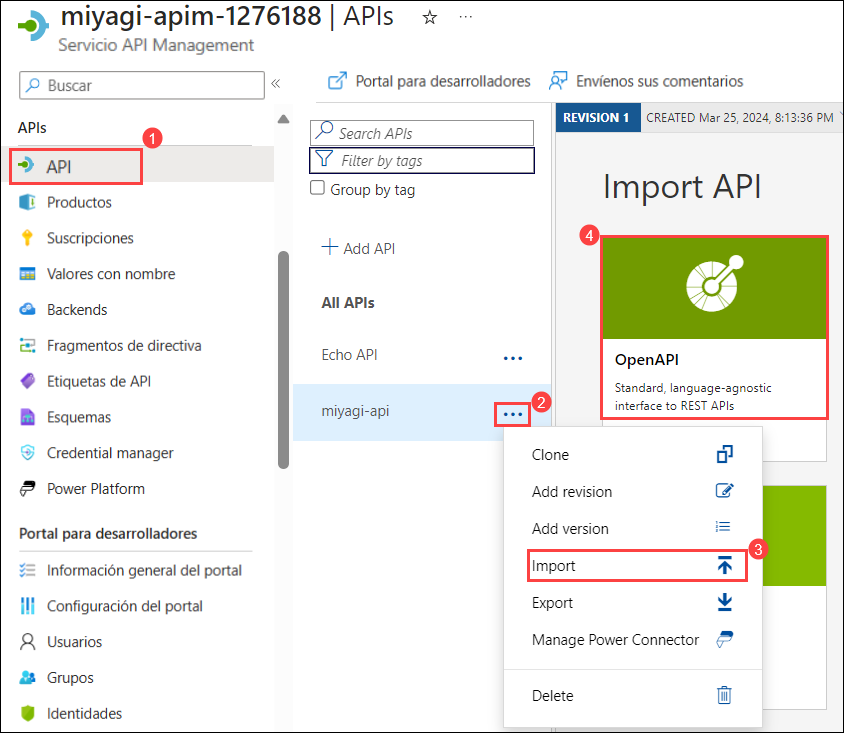
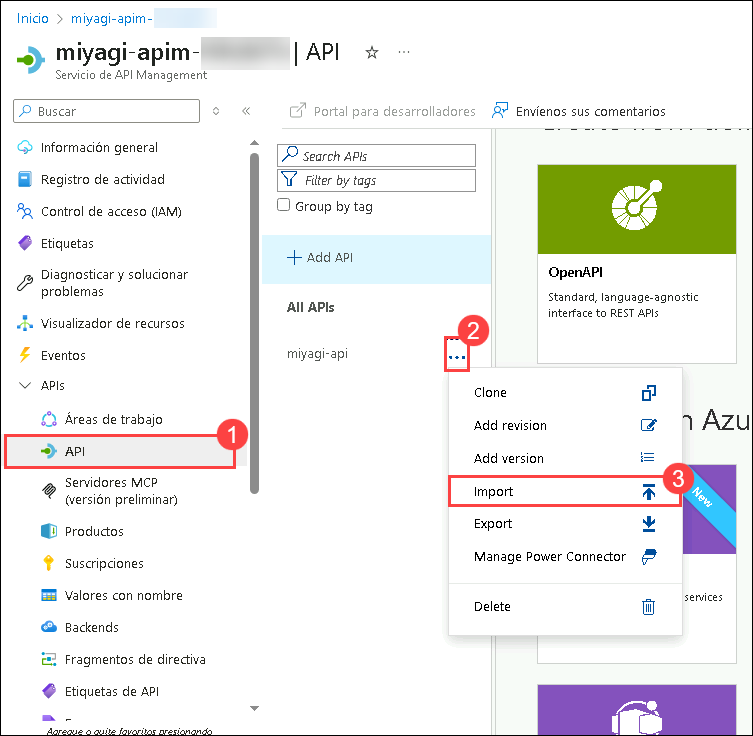
updated Lab3.md

diff --git a/docs/labs/02-build-your-own-copilot/Lab3.md b/docs/labs/02-build-your-own-copilot/Lab3.md
@@ -30,7 +30,7 @@ En esta tarea, configurará una API HTTP en Azure API Management para interactua
    | API Type **(1)**     | **Basic**            | 
    | Display name **(2)** | **miyagi-api**       |
    | Name **(3)**         | **miyagi-api**       |
-   | Web service URL **(4)** | Enter the Endpoint of Azure OpenAI Endpoint  **<inject key="OpenAIEndpoint" enableCopy="true"/>**  |
+   | Web service URL **(4)** | Ingrese el punto final de Azure OpenAI Endpoint  **<inject key="OpenAIEndpoint" enableCopy="true"/>**  |
    | API URL suffix **(5)** | **openai** |
    | Click on  **(6)** | **Create** |
 
@@ -84,7 +84,9 @@ En este laboratorio, configurará políticas de API, definirá roles y suscripci
 
 7. En la ventana **Agregar producto**, especifique **OpenAi** **(1)** como **Nombre para mostrar** y **OpenAI** **(2)** como **Descripción**. En el menú **API**, haga clic en el **Signo más** **(3)**, seleccione **Azure OpenAI Service API** **(4)**, presione Intro y haga clic en **Crear** **(5)**.
 
-   ![](./Media/productSpan.png)
+   ![](./Media/productSpan-1.png)
+
+   ![](./Media/productSpan-2.png)
 
 8. En el servicio API Management **miyagi-apim-<inject key="DeploymentID" enableCopy="false"/>**, haga clic en **Suscripciones** **(1)** en APIs del menú izquierdo y haga clic en **+ Agregar suscripción** **(2)**.
 
@@ -188,7 +190,6 @@ En esta tarea, actualizará la configuración del servicio de recomendaciones, r
 
     >**Nota**: Este comando crea una imagen Docker llamada Miyagi-recommendation a partir del Dockerfile y los archivos asociados en el directorio actual.
 
-
 1. Ejecute el siguiente comando para iniciar sesión en ACR.
 
     ```
@@ -255,13 +256,15 @@ En esta tarea, configurará el registro de Event Hub para API Management, config
 
    ![](./Media/namespace2-1.png)
 
-4. En la pestaña **Miembros**, seleccione **Identidad administrada** **(1)**, haga clic en **+ Seleccionar miembros** **(2)**. 
+4. En la pestaña **Miembros**, seleccione **Identidad administrada** **(1)**, haga clic en **+ Seleccionar miembros** **(2)**.
 
-5. En la ventana emergente Selección de identidades administradas, para **Suscripción deje el valor predeterminado**, en el menú desplegable Identidad administrada elija **API Management service** **(3)**, seleccione **miyagi-apim-<inject key="DeploymentID" enableCopy="false"/>** **(4)**, haga clic en **Seleccionar** **(5)**. 
+   ![](./Media/miyagi-image82.png)
 
-6. Haga clic en **Siguiente** **(6)**.
+5. En la ventana emergente Selección de identidades administradas, para **Suscripción deje el valor predeterminado (1)**, en el menú desplegable Identidad administrada elija **Servicio de gestión de API** **(2)**, seleccione **miyagi-apim-<inject key="DeploymentID" enableCopy="false"/>** **(3)**, haga clic en **Seleccionar** **(4)**. 
 
-   ![](./Media/apim-role-2.png)
+   ![](./Media/miyagi-image83.png)
+
+6. Haga clic en **Siguiente**.
 
 7. En la pestaña **Revisar y asignar** haga clic en **Revisar y asignar**.
 
